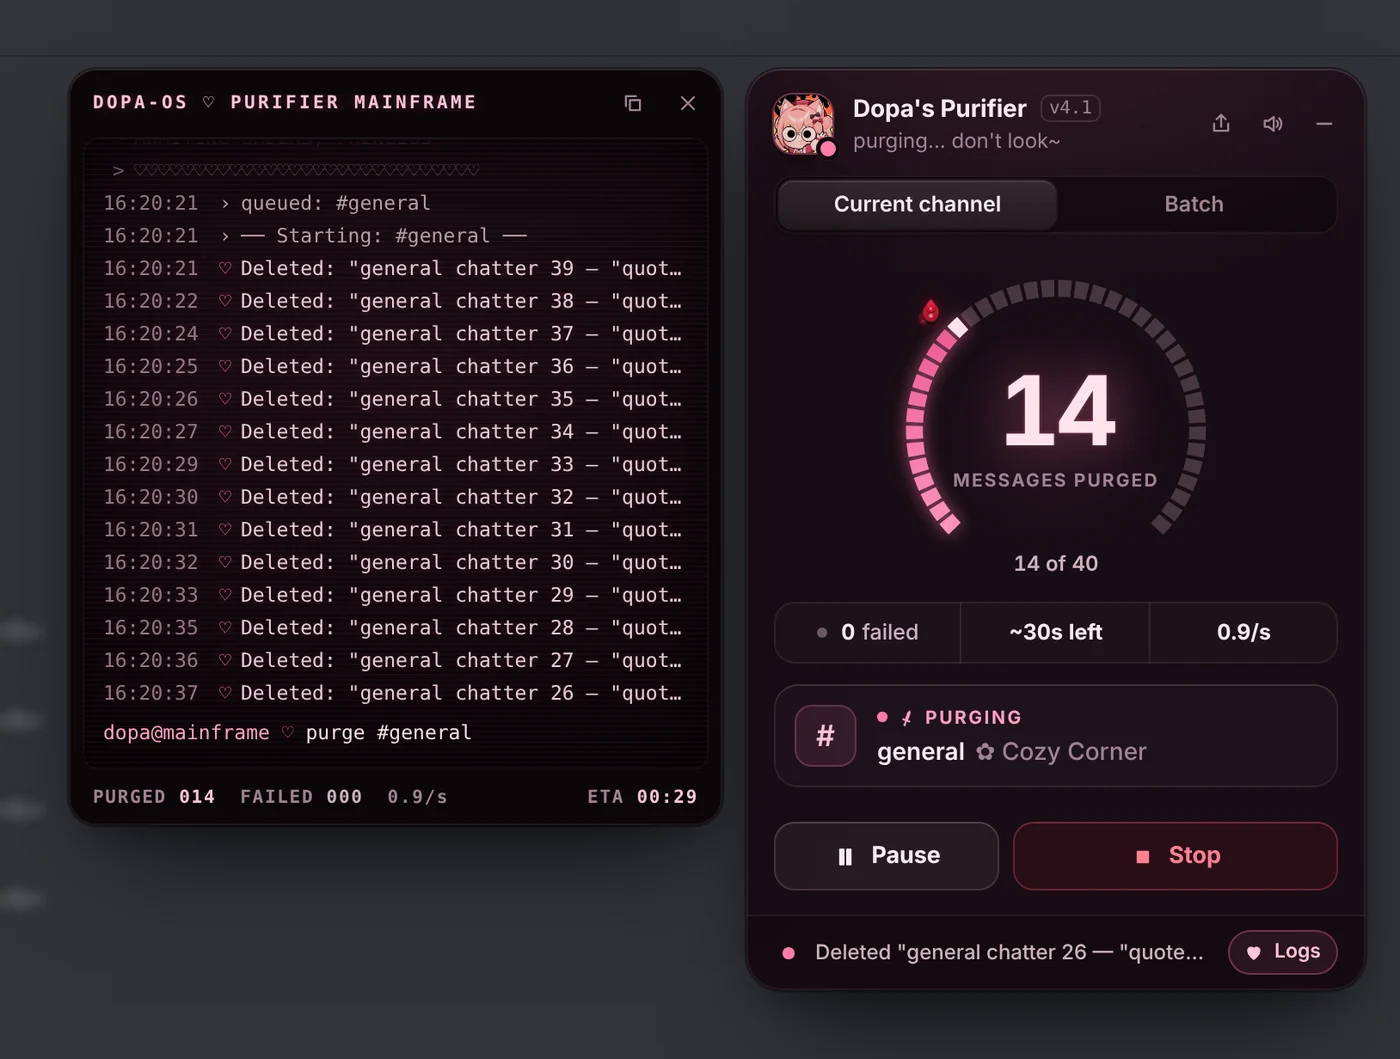
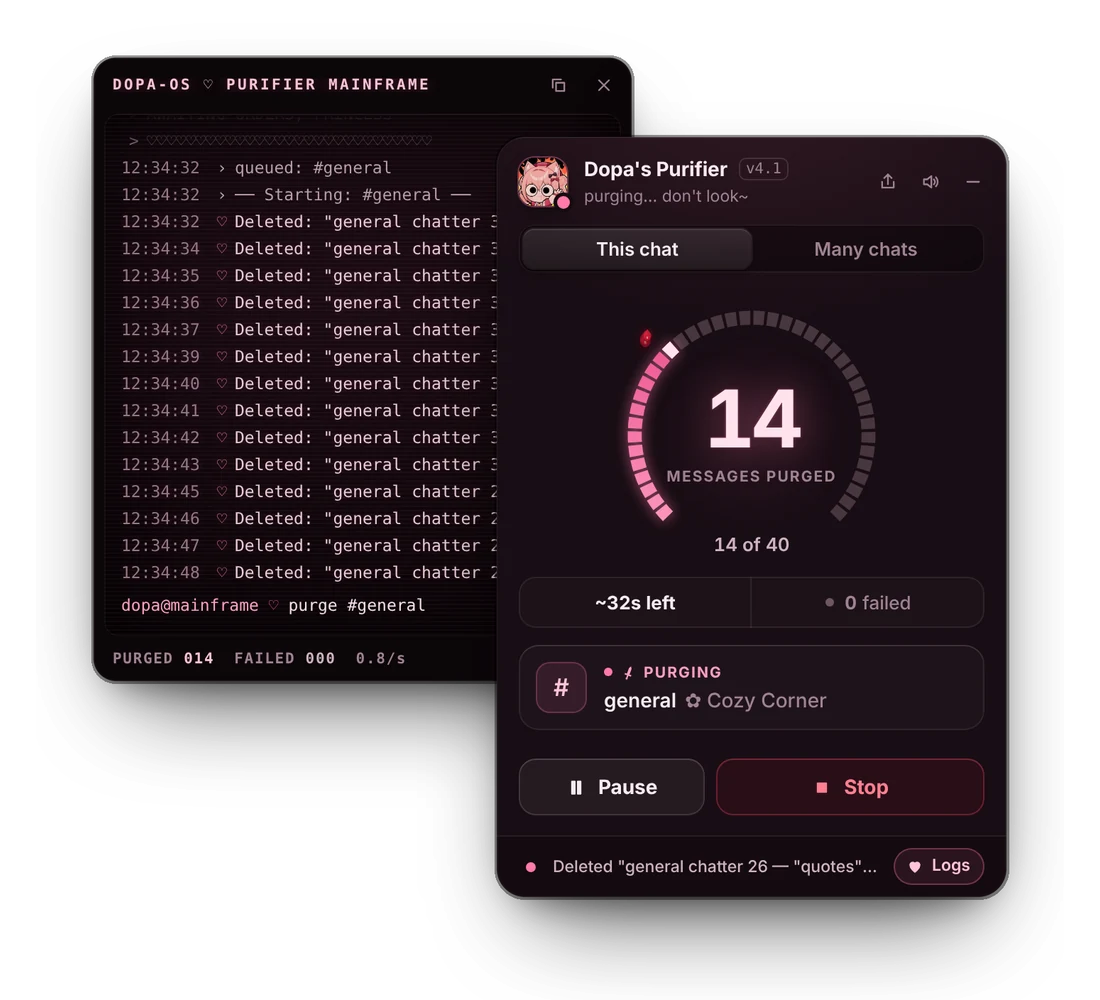
Retake the install page's pictures from the polished panel
Regenerated docs/img at the shipped pace from the design pass's panel: the
hero shows "40 · READY FOR PURGE", the run shows "~32s left · 0 failed", the
finish and immune cards carry the new copy, and the link preview's tagline
reads "only your messages". Adds the 32px favicon.

Claude-Session: https://claude.ai/code/session_01KmpKQV8MWUphwgQZhfMiGa

diff --git a/tools/marketing.py b/tools/marketing.py
@@ -148,7 +148,7 @@ def main(shots, img):
     draw.text((72, 312), 'Purifier', font=font('bold', 64), fill=(255, 160, 194))
     draw.text((72, 410), 'Wipe your own messages from any', font=font('medium', 30), fill=(207, 179, 193))
     draw.text((72, 450), 'DM, group or server — in a few clicks~', font=font('medium', 30), fill=(207, 179, 193))
-    draw.text((72, 520), 'Free  ·  runs in your browser  ·  open source', font=font('medium', 24), fill=(160, 131, 147))
+    draw.text((72, 520), 'Free  ·  runs in your browser  ·  only your messages', font=font('medium', 24), fill=(160, 131, 147))
     info = PngImagePlugin.PngInfo()
     info.add_text('Description', stamp)
     og.save(img / 'og.png', 'PNG', optimize=True, pnginfo=info)
